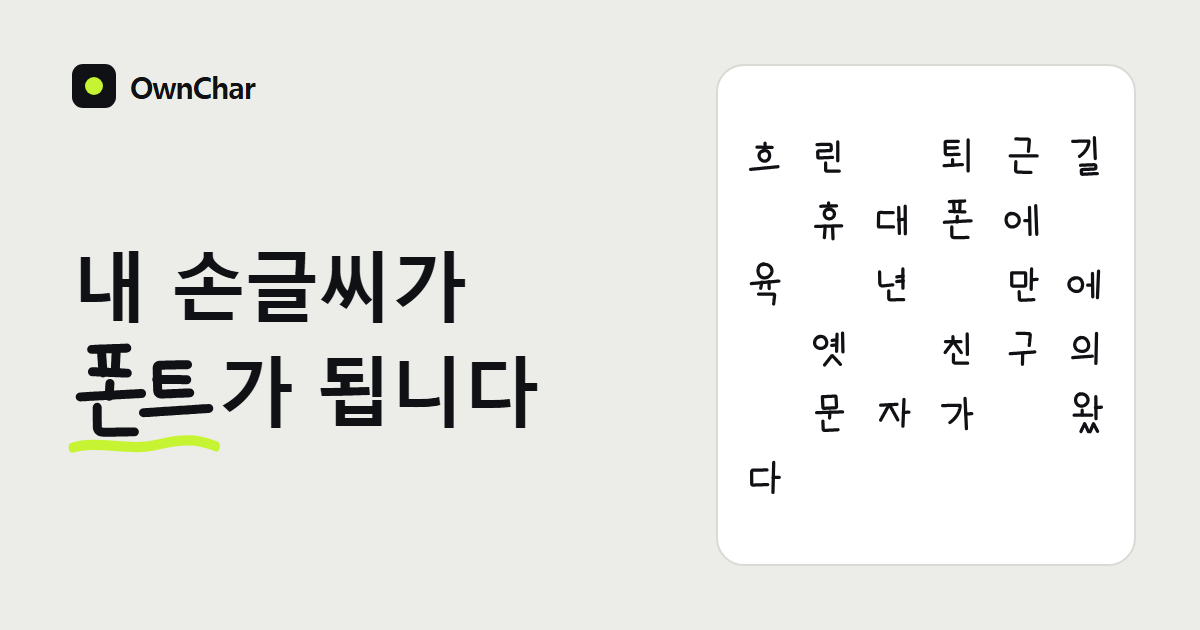
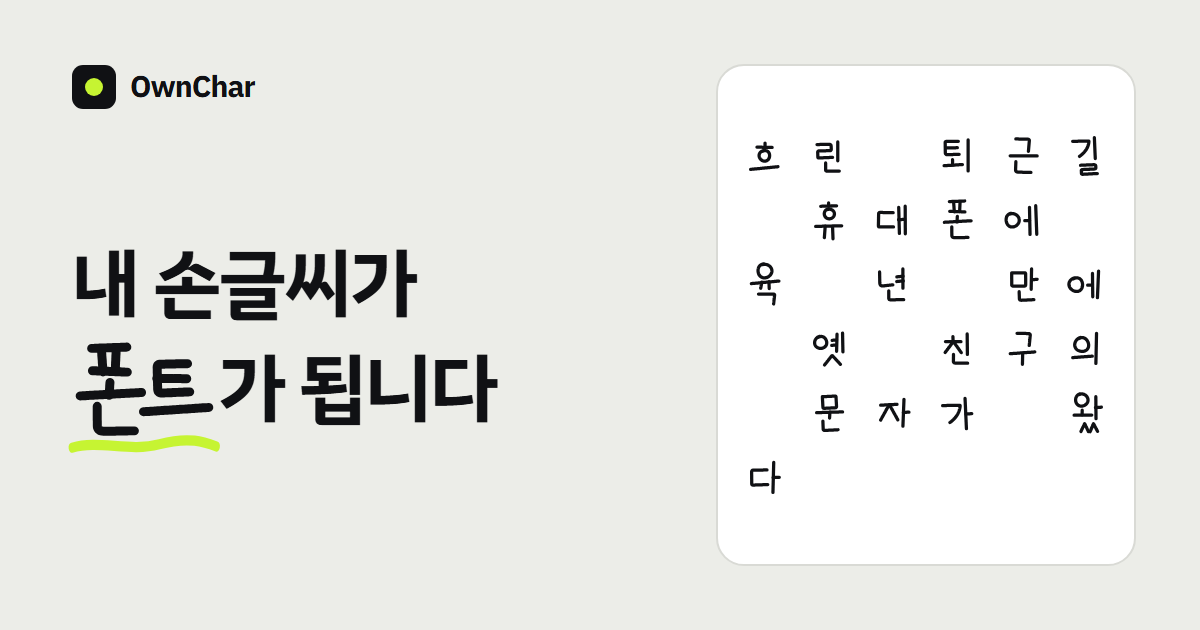
feat: use Noto Sans KR for body, IBM Plex Sans KR for h1
Replace Wanted Sans with Noto Sans KR (body) and IBM Plex Sans KR (page h1 only).
Add a Vite plugin that sets ascent/descent overrides on both font faces so the
Hangul ink is centred in the line box and icons line up with text.
Fix half-pixel text offset in the nav: use integer line-heights on .app-nav and
.save-indicator.
Update the canvas film fonts, the OG image script and image, DESIGN.md, the
.impeccable files and the license text.

diff --git a/src/styles.css b/src/styles.css
@@ -1,5 +1,4 @@
 @import 'tailwindcss';
-@import 'wanted-sans/fonts/webfonts/variable/split/WantedSansVariable.css';
 
 @theme {
 	--color-ink: #101114;
@@ -11,7 +10,8 @@
 	--color-lime-deep: #b2e016;
 	--color-lime-ink: #3c4a0a;
 	--color-danger: #c2261a;
-	--font-sans: 'Wanted Sans Variable', 'Wanted Sans', -apple-system, BlinkMacSystemFont, 'Apple SD Gothic Neo', 'Malgun Gothic', 'Segoe UI', sans-serif;
+	--font-sans: 'Noto Sans KR Variable', -apple-system, BlinkMacSystemFont, 'Apple SD Gothic Neo', 'Malgun Gothic', 'Segoe UI', sans-serif;
+	--font-heading: 'IBM Plex Sans KR', -apple-system, BlinkMacSystemFont, 'Apple SD Gothic Neo', 'Malgun Gothic', 'Segoe UI', sans-serif;
 	--ease-out-expo: cubic-bezier(0.16, 1, 0.3, 1);
 }
 
@@ -57,6 +57,9 @@ button {
 :focus-visible {
 	outline: 2px solid var(--color-ink);
 	outline-offset: 2px;
+}
+h1 {
+	font-family: var(--font-heading);
 }
 h1,
 h2,
@@ -120,6 +123,7 @@ a {
 	align-items: center;
 	gap: 2px;
 	font-size: 14px;
+	line-height: 20px;
 	font-weight: 500;
 }
 .app-nav a,
@@ -148,6 +152,7 @@ a {
 	white-space: nowrap;
 	padding-inline: 8px;
 	font-size: 13px;
+	line-height: 19px;
 	font-weight: 600;
 	color: var(--color-ink-2);
 }

diff --git a/vite.config.ts b/vite.config.ts
@@ -10,8 +10,22 @@ const { SENTRY_AUTH_TOKEN: authToken, SENTRY_ORG: org, SENTRY_PROJECT: project }
 /** Source maps go to Sentry only when the build can upload them, and never ship with the site. */
 const uploadSourceMaps = Boolean(authToken && org && project);
 
+/** Vertical metrics that centre the Hangul ink in the line box, so an icon next to the text lines up. */
+const fontMetrics: Record<string, string> = {
+	'noto-sans-kr': 'ascent-override: 110%; descent-override: 35%; line-gap-override: 0%;',
+	'ibm-plex-sans-kr': 'ascent-override: 107%; descent-override: 44%; line-gap-override: 0%;'
+};
+
 export default defineConfig({
 	plugins: [
+		{
+			name: 'centre-hangul-fonts',
+			enforce: 'pre',
+			transform(code, id) {
+				const family = Object.keys(fontMetrics).find((name) => id.includes(`/${name}/`) && id.endsWith('.css'));
+				if (family) return code.replaceAll('font-display: swap;', `font-display: swap; ${fontMetrics[family]}`);
+			}
+		},
 		{
 			name: 'isolate-module-server-cache',
 			config(config) {

diff --git a/src/routes/license.tsx b/src/routes/license.tsx
@@ -26,7 +26,7 @@ function LicensePage() {
 			<section className="mt-12 border-t border-rule pt-6">
 				<h2 className="text-lg font-bold">사용 라이브러리</h2>
 				<p className="mt-4 text-base leading-7 text-ink-2">
-					React, Vite, TanStack Router, TanStack Store, Tailwind CSS, shadcn/ui/Radix UI, perfect-freehand, Clipper2, opentype.js, Lucide, Wanted Sans를 사용합니다. 각 라이브러리에는 해당 프로젝트의 오픈소스 라이선스가 적용됩니다.
+					React, Vite, TanStack Router, TanStack Store, Tailwind CSS, shadcn/ui/Radix UI, perfect-freehand, Clipper2, opentype.js, Lucide, IBM Plex Sans KR, Noto Sans KR을 사용합니다. 각 라이브러리에는 해당 프로젝트의 오픈소스 라이선스가 적용됩니다.
 				</p>
 			</section>
 		</article>

diff --git a/src/main.tsx b/src/main.tsx
@@ -3,6 +3,8 @@ import { createRouter, RouterProvider } from '@tanstack/react-router';
 import { initializeTelemetry, reportError, reportRenderError, setView } from '@/lib/telemetry';
 import { initializePersistence } from '@/project/persistence';
 import { routeTree } from './routeTree.gen';
+import '@fontsource-variable/noto-sans-kr/wght.css';
+import '@fontsource/ibm-plex-sans-kr/700.css';
 import './styles.css';
 
 const router = createRouter({

diff --git a/src/features/generating/film.ts b/src/features/generating/film.ts
@@ -32,7 +32,7 @@ const INK = '#101114';
 const INK_2 = '#4a4c52';
 const LIME = '#C6F432';
 const RULE = '#D9DAD5';
-const FONT = '"Wanted Sans Variable", "Wanted Sans", sans-serif';
+const FONT = '"Noto Sans KR Variable", sans-serif';
 /** Share of the specimen box a 1000-unit em takes. */
 const EM_FIT = 0.84;
 /** The steps whose result is kept in the trail: every step shown on the specimens. */

diff --git a/src/features/home/home-film.ts b/src/features/home/home-film.ts
@@ -44,7 +44,7 @@ const INK_2 = '#4a4c52';
 const INK_3 = '#666970';
 const LIME = '#C6F432';
 const RULE = '#D9DAD5';
-const FONT = '"Wanted Sans Variable", "Wanted Sans", sans-serif';
+const FONT = '"Noto Sans KR Variable", sans-serif';
 /** Share of a slot a 1000-unit em takes. */
 const EM_FIT = 0.84;
 const SYLLABLES = 11172;

diff --git a/DESIGN.md b/DESIGN.md
@@ -15,44 +15,44 @@ colors:
   danger: '#c2261a'
 typography:
   display:
-    fontFamily: 'Wanted Sans Variable, Wanted Sans, -apple-system, BlinkMacSystemFont, Apple SD Gothic Neo, Malgun Gothic, Segoe UI, sans-serif'
+    fontFamily: 'IBM Plex Sans KR, -apple-system, BlinkMacSystemFont, Apple SD Gothic Neo, Malgun Gothic, Segoe UI, sans-serif'
     fontSize: 'clamp(34px, 4vw, 52px)'
     fontWeight: 800
     lineHeight: 1.16
     letterSpacing: '-0.035em'
   headline:
-    fontFamily: 'Wanted Sans Variable, Wanted Sans, -apple-system, BlinkMacSystemFont, Apple SD Gothic Neo, Malgun Gothic, Segoe UI, sans-serif'
+    fontFamily: 'IBM Plex Sans KR, -apple-system, BlinkMacSystemFont, Apple SD Gothic Neo, Malgun Gothic, Segoe UI, sans-serif'
     fontSize: '26px'
     fontWeight: 800
     lineHeight: 1.25
     letterSpacing: '-0.03em'
   figure:
-    fontFamily: 'Wanted Sans Variable, Wanted Sans, -apple-system, BlinkMacSystemFont, Apple SD Gothic Neo, Malgun Gothic, Segoe UI, sans-serif'
+    fontFamily: 'Noto Sans KR Variable, -apple-system, BlinkMacSystemFont, Apple SD Gothic Neo, Malgun Gothic, Segoe UI, sans-serif'
     fontSize: '44px'
     fontWeight: 800
     lineHeight: 1
     letterSpacing: '-0.03em'
     fontFeature: 'tnum'
   title:
-    fontFamily: 'Wanted Sans Variable, Wanted Sans, -apple-system, BlinkMacSystemFont, Apple SD Gothic Neo, Malgun Gothic, Segoe UI, sans-serif'
+    fontFamily: 'Noto Sans KR Variable, -apple-system, BlinkMacSystemFont, Apple SD Gothic Neo, Malgun Gothic, Segoe UI, sans-serif'
     fontSize: '18px'
     fontWeight: 700
     lineHeight: 1.55
     letterSpacing: '-0.02em'
   body:
-    fontFamily: 'Wanted Sans Variable, Wanted Sans, -apple-system, BlinkMacSystemFont, Apple SD Gothic Neo, Malgun Gothic, Segoe UI, sans-serif'
+    fontFamily: 'Noto Sans KR Variable, -apple-system, BlinkMacSystemFont, Apple SD Gothic Neo, Malgun Gothic, Segoe UI, sans-serif'
     fontSize: '16px'
     fontWeight: 400
     lineHeight: 1.75
     letterSpacing: 'normal'
   ui:
-    fontFamily: 'Wanted Sans Variable, Wanted Sans, -apple-system, BlinkMacSystemFont, Apple SD Gothic Neo, Malgun Gothic, Segoe UI, sans-serif'
+    fontFamily: 'Noto Sans KR Variable, -apple-system, BlinkMacSystemFont, Apple SD Gothic Neo, Malgun Gothic, Segoe UI, sans-serif'
     fontSize: '14px'
     fontWeight: 600
     lineHeight: 1.43
     letterSpacing: 'normal'
   label:
-    fontFamily: 'Wanted Sans Variable, Wanted Sans, -apple-system, BlinkMacSystemFont, Apple SD Gothic Neo, Malgun Gothic, Segoe UI, sans-serif'
+    fontFamily: 'Noto Sans KR Variable, -apple-system, BlinkMacSystemFont, Apple SD Gothic Neo, Malgun Gothic, Segoe UI, sans-serif'
     fontSize: '12px'
     fontWeight: 600
     lineHeight: 1.6
@@ -184,7 +184,7 @@ The system is dense and tool-like in the stage and calm in the rail. It avoids p
 - A fixed frame for the main flow: lime rail at the left, white stage for the rest, primary action at the rail's bottom.
 - Solid ink is the single mark of "selected / current / primary".
 - Flat: no elevation shadows, no tonal gradients, 1px hairlines, 6px corners.
-- One sans family (Wanted Sans); the user's handwriting font is the only other typeface that ever appears.
+- Two sans families: IBM Plex Sans KR for the page h1 only, Noto Sans KR for everything else; the user's handwriting font is the only other typeface that ever appears.
 - Motion keeps things in place and changes their pose; route changes hold the rail and stage and move one glyph across.
 
 ## Colors
@@ -225,8 +225,8 @@ Translucent ink is used for three things only: hover wash on transparent control
 
 ## Typography
 
-**Display Font:** Wanted Sans Variable (with Wanted Sans, -apple-system, Apple SD Gothic Neo, Malgun Gothic, Segoe UI, sans-serif)
-**Body Font:** the same family
+**Display Font:** IBM Plex Sans KR, page h1 only (with -apple-system, Apple SD Gothic Neo, Malgun Gothic, Segoe UI, sans-serif)
+**Body Font:** Noto Sans KR Variable (with -apple-system, Apple SD Gothic Neo, Malgun Gothic, Segoe UI, sans-serif)
 **Specimen Font:** the user's generated font (`OwnCharPreview`), only for their own text: the preview sentence, the characters in the source popover, glyph cells.
 
 **Character:** One heavy, tight Korean grotesque doing everything by weight. Headings are 800 and tightly tracked; the interface underneath is 14px at 600. The only expressive letterforms on screen are the writer's own.

diff --git a/.impeccable/surfaces/src-routes-generate-tsx.md b/.impeccable/surfaces/src-routes-generate-tsx.md
@@ -21,7 +21,7 @@ Confirmed constraints (user, 2026-10-04):
 
 THESIS: One stroke, never cut. The same handwriting stays on screen from the writing cell to the finished font, changing pose at each algorithm instead of being replaced by a loading screen. Refused: the spinner-and-progress-bar interstitial and the white/blue tool shell.
 
-OWN-WORLD: Three values: ink `#101114`, white, lime `#C6F432`, on a quiet neutral ground `#ECEDE8`; one functional red `#C2261A` for destructive and error states only. Flat fields, no shadows, no gradients. Selection, the live step, progress and primary actions are solid ink. Lime is the field colour of whatever frames the work (the flow rail, the editor bar, the home demonstration) and the mark of the live jamo inside the film; it is never a text colour on white. One sans family (Wanted Sans); hierarchy by weight and ink/lime reversal, few sizes. 6px corners. 1px ink hairlines.
+OWN-WORLD: Three values: ink `#101114`, white, lime `#C6F432`, on a quiet neutral ground `#ECEDE8`; one functional red `#C2261A` for destructive and error states only. Flat fields, no shadows, no gradients. Selection, the live step, progress and primary actions are solid ink. Lime is the field colour of whatever frames the work (the flow rail, the editor bar, the home demonstration) and the mark of the live jamo inside the film; it is never a text colour on white. Two sans families (IBM Plex Sans KR for the page h1 only, Noto Sans KR for the rest); hierarchy by weight and ink/lime reversal, few sizes. 6px corners. 1px ink hairlines.
 
 STORY: The writer sees their own letter lifted from the sentence, steadied, outlined, split into jamo, normalised, recombined into other syllables, multiplied to 11,172, and then typed back to them as a sentence in their font.
 
